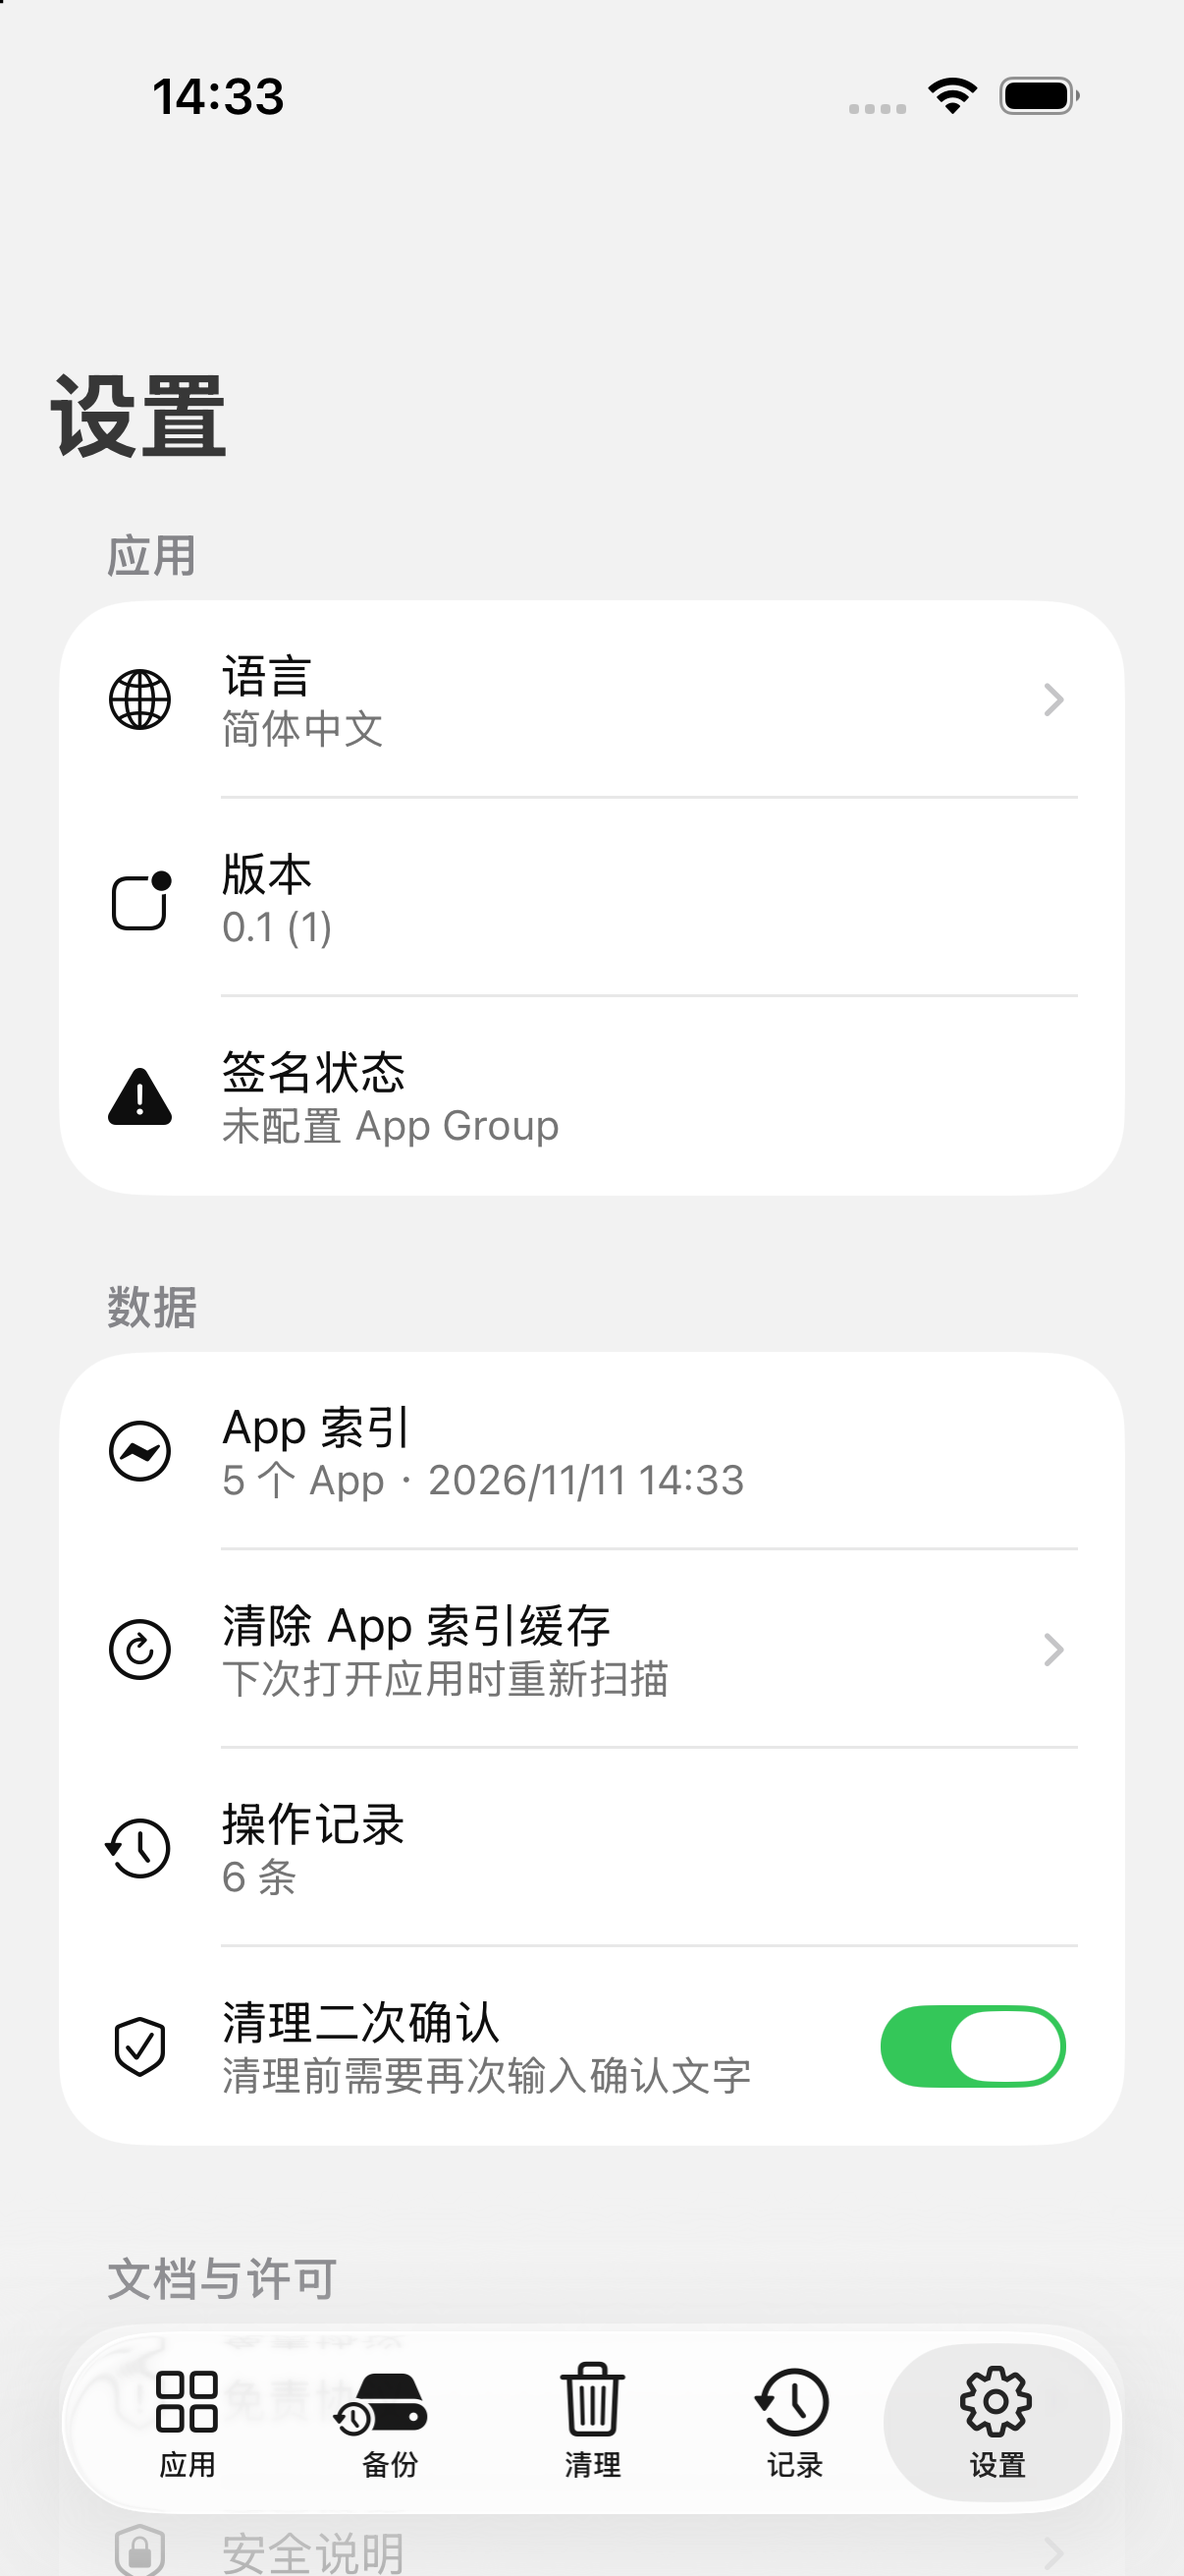
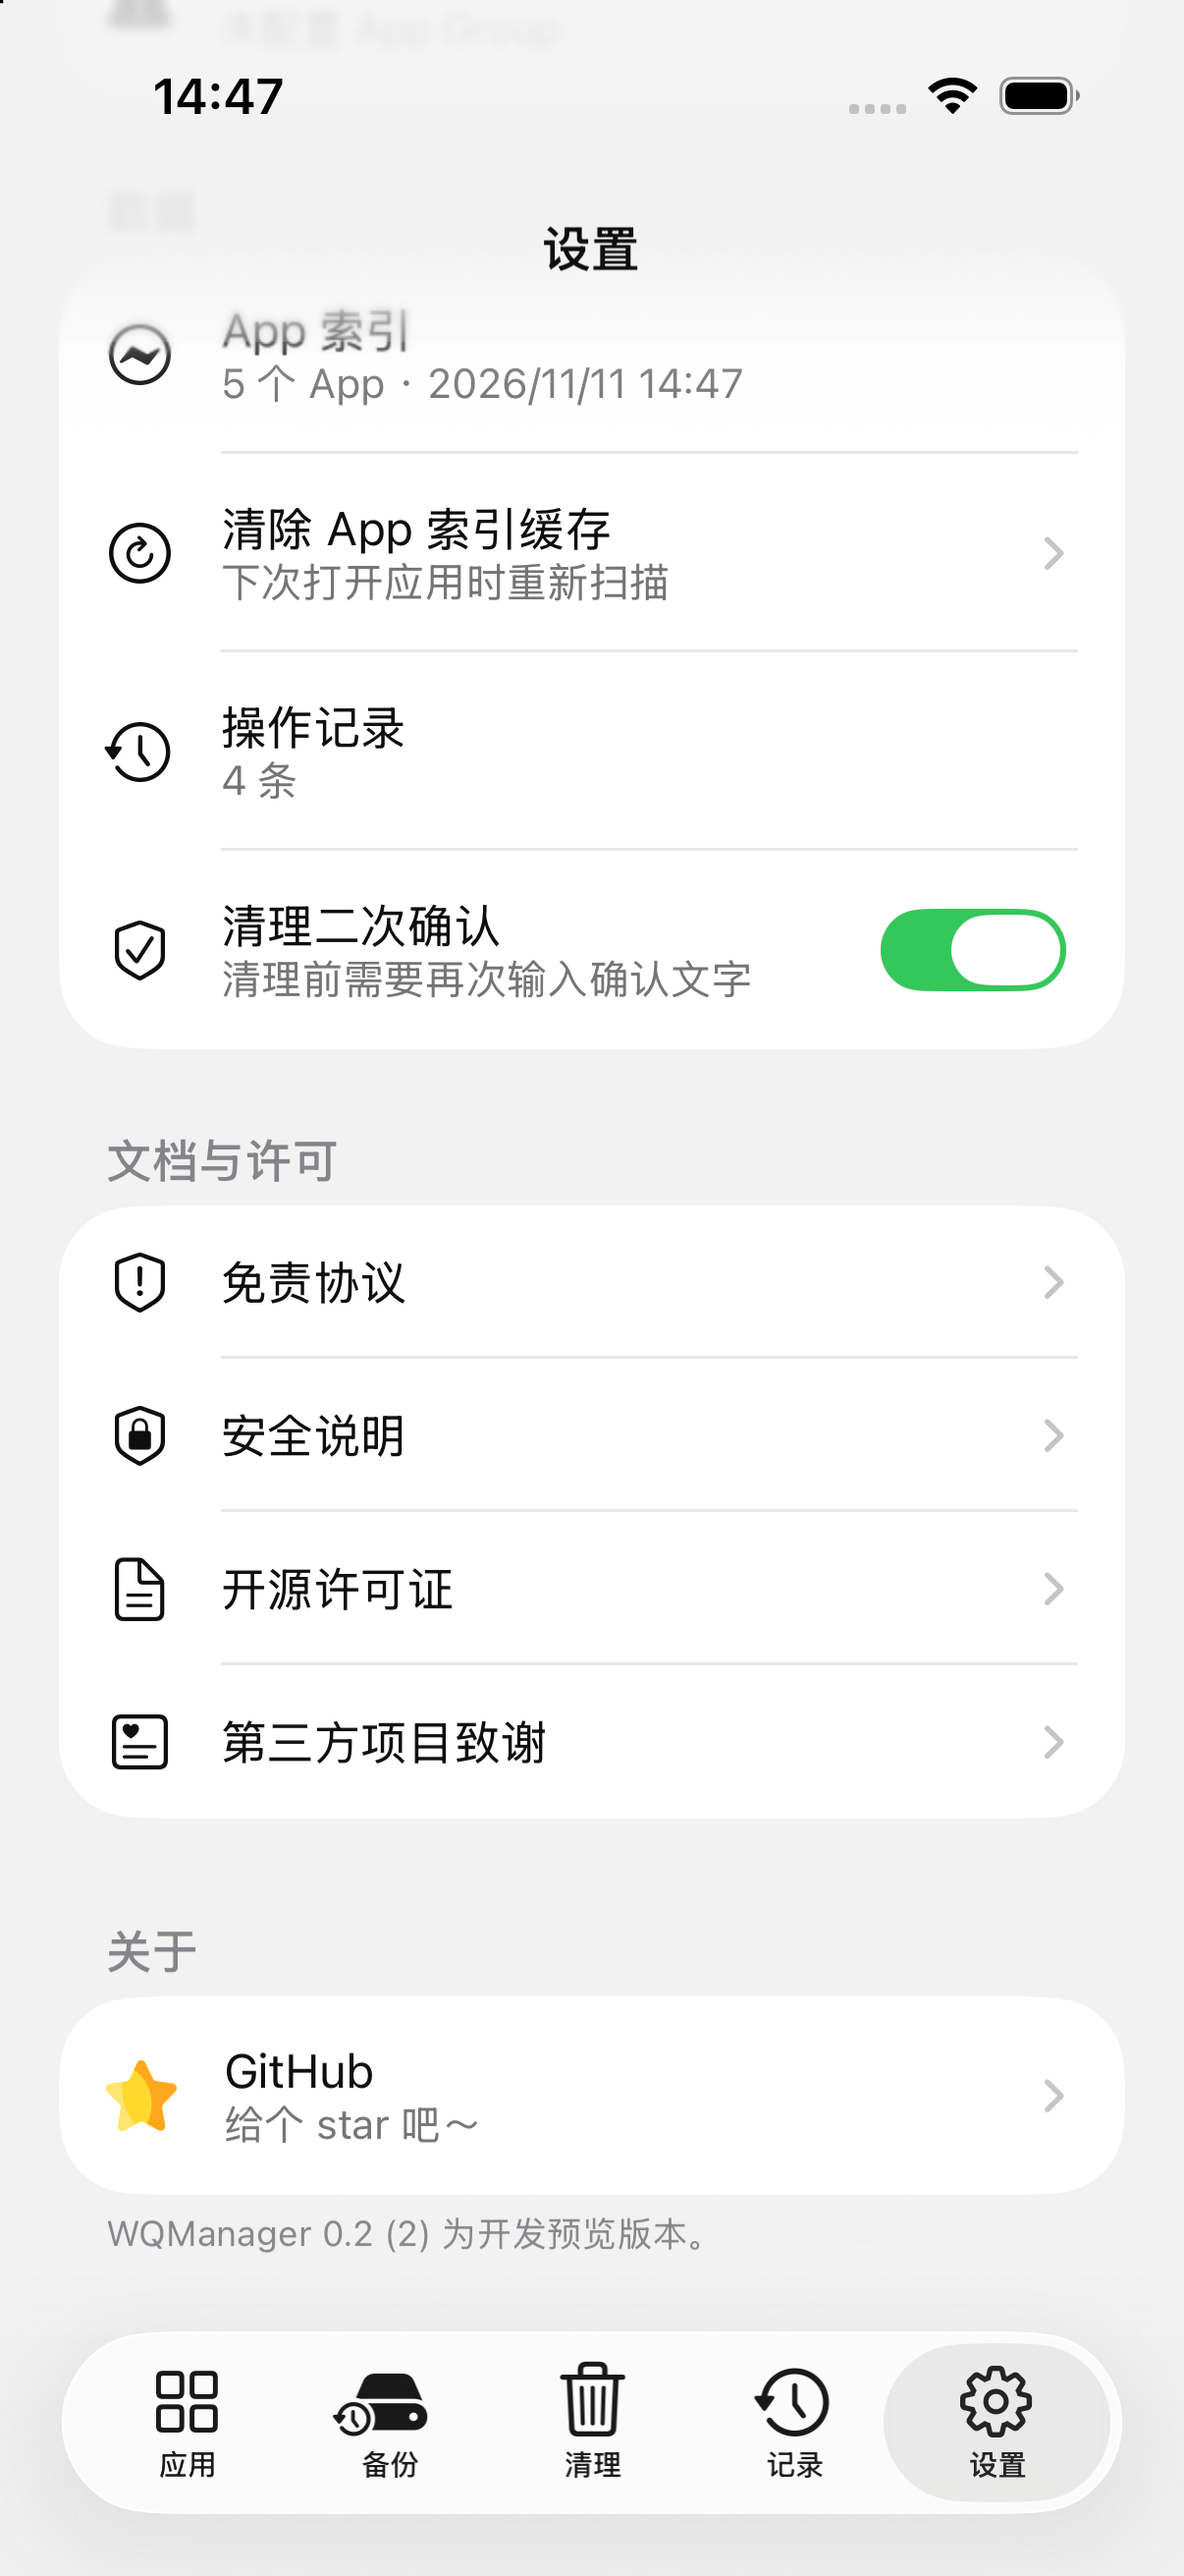
feat: in-app GitHub entry, version 0.2, cleaner drawer jitter fix

diff --git a/WQManager/WQManager/WQMSettingsViewController.m b/WQManager/WQManager/WQMSettingsViewController.m
@@ -154,6 +154,16 @@ typedef NS_ENUM(NSInteger, WQMSettingsRow) {
 {
     [super viewDidAppear:animated];
 #if DEBUG
+    if ([NSProcessInfo.processInfo.environment[@"WQM_UI_SETTINGS_SCROLL"] boolValue]) {
+        dispatch_after(dispatch_time(DISPATCH_TIME_NOW, (int64_t)(1.2 * NSEC_PER_SEC)),
+                       dispatch_get_main_queue(), ^{
+            CGFloat bottom = self.tableView.contentSize.height - self.tableView.bounds.size.height
+                           + self.tableView.adjustedContentInset.bottom + 96;
+            if (bottom > 0) [self.tableView setContentOffset:CGPointMake(0, bottom) animated:NO];
+        });
+    }
+#endif
+#if DEBUG
     NSString *fixtureRow = NSProcessInfo.processInfo.environment[@"WQM_UI_SETTINGS_DOC"];
     if (fixtureRow.length && !_presentedFixtureDocument) {
         _presentedFixtureDocument = YES;
@@ -194,25 +204,27 @@ typedef NS_ENUM(NSInteger, WQMSettingsRow) {
     });
 }
 
-- (NSInteger)numberOfSectionsInTableView:(UITableView *)tableView { return 3; }
+- (NSInteger)numberOfSectionsInTableView:(UITableView *)tableView { return 4; }
 
 - (NSInteger)tableView:(UITableView *)tableView numberOfRowsInSection:(NSInteger)section
 {
     if (section == 0) return 3;
     if (section == 1) return 4;
-    return 4;
+    if (section == 2) return 4;
+    return 1;
 }
 
 - (NSString *)tableView:(UITableView *)tableView titleForHeaderInSection:(NSInteger)section
 {
     if (section == 0) return WQML(@"SETTINGS_APP", @"应用");
     if (section == 1) return WQML(@"SETTINGS_DATA", @"数据");
-    return WQML(@"SETTINGS_DOCS", @"文档与许可");
+    if (section == 2) return WQML(@"SETTINGS_DOCS", @"文档与许可");
+    return WQML(@"SETTINGS_ABOUT", @"关于");
 }
 
 - (NSString *)tableView:(UITableView *)tableView titleForFooterInSection:(NSInteger)section
 {
-    if (section == 2) return WQML(@"DEVELOPMENT_FOOTER", @"WQManager 0.1 为开发预览版本。");
+    if (section == 3) return [NSString stringWithFormat:WQML(@"DEVELOPMENT_FOOTER", @"WQManager %@ 为开发预览版本。"), _versionText ?: @""];
     return nil;
 }
 
@@ -273,6 +285,15 @@ typedef NS_ENUM(NSInteger, WQMSettingsRow) {
                    action:@selector(cleanDoubleConfirmToggled:)
          forControlEvents:UIControlEventValueChanged];
         cell.accessoryView = toggle;
+    } else if (indexPath.section == 3) {
+        content.text = @"GitHub";
+        content.secondaryText = WQML(@"SETTINGS_GITHUB_SUBTITLE", @"给个 star 吧～");
+        UIImage *star = [UIImage imageNamed:@"Star"];
+        content.image = star ? [star imageWithRenderingMode:UIImageRenderingModeAlwaysOriginal]
+                             : [UIImage systemImageNamed:@"star.fill"];
+        content.imageProperties.maximumSize = CGSizeMake(24, 24);
+        content.imageProperties.reservedLayoutSize = CGSizeMake(24, 24);
+        cell.accessoryType = UITableViewCellAccessoryDisclosureIndicator;
     } else {
         NSArray<NSString *> *titles = @[
             WQML(@"DISCLAIMER", @"免责协议"),
@@ -319,6 +340,11 @@ typedef NS_ENUM(NSInteger, WQMSettingsRow) {
             [self reloadState];
         }]];
         [self presentViewController:alert animated:YES completion:nil];
+        return;
+    }
+    if (indexPath.section == 3) {
+        NSURL *url = [NSURL URLWithString:@"https://github.com/hhse/WQManager"];
+        if (url) [[UIApplication sharedApplication] openURL:url options:@{} completionHandler:nil];
         return;
     }
     if (indexPath.section != 2) return;

diff --git a/WQManager/WQManager/WQMCleanerViewController.m b/WQManager/WQManager/WQMCleanerViewController.m
@@ -924,8 +924,9 @@ typedef NS_ENUM(NSInteger, WQMCleanerQuickAction) {
 
     _titleLabel.text = item.name;
     _titleLabel.textColor = item.eligible ? WQMTheme.textPrimaryColor : WQMTheme.textSecondaryColor;
-    _iconView.image = [WQMAppIconService iconForBundleIdentifier:item.bundleIdentifier
-                                                     displayName:item.name];
+    UIImage *icon = [WQMAppIconService iconForBundleIdentifier:item.bundleIdentifier
+                                                   displayName:item.name];
+    if (icon && icon != _iconView.image) _iconView.image = icon;
     _iconView.alpha = item.eligible ? 1 : 0.5;
     _sizeLabel.text = item.eligible ? WQMFormatBytes(item.bytes) : @"";
 
@@ -962,8 +963,9 @@ typedef NS_ENUM(NSInteger, WQMCleanerQuickAction) {
 
 - (void)refreshIconWithItem:(WQMCleanItem *)item
 {
-    _iconView.image = [WQMAppIconService iconForBundleIdentifier:item.bundleIdentifier
-                                                     displayName:item.name];
+    UIImage *icon = [WQMAppIconService iconForBundleIdentifier:item.bundleIdentifier
+                                                   displayName:item.name];
+    if (icon && icon != _iconView.image) _iconView.image = icon;
 }
 
 - (void)configureEmptyScanning:(BOOL)scanning status:(NSString *)status
@@ -1351,8 +1353,8 @@ typedef NS_ENUM(NSInteger, WQMCleanerQuickAction) {
     if (expanded) [_expandedKeys addObject:key];
     else [_expandedKeys removeObject:key];
     WQMCleanerCell *cell = (WQMCleanerCell *)[tableView cellForRowAtIndexPath:indexPath];
-    [cell setExpanded:expanded animated:YES];
     [tableView beginUpdates];
+    [cell setExpanded:expanded animated:YES];
     [tableView endUpdates];
 }
 

diff --git a/CHANGELOG.md b/CHANGELOG.md
@@ -11,9 +11,17 @@ semantic versioning once it reaches 1.0.
 - Cleaner rows no longer clip text at large Dynamic Type sizes; every row uses
   intrinsic height and a `>= 52 pt` minimum.
 - Dashboard progress ring no longer jitters when the selection changes.
+- Cleaner drawers expand/collapse inside the table update transaction, so the
+  app icon no longer jitters while the card resizes.
+
+### Added
+
+- Settings → About now links to the project on GitHub, with the star icon and a
+  short "give it a star" line (0.2).
 
 ### Changed
 
+- Version 0.2 (build 2).
 - Cleaner list redesigned after the iOS 26 "storage" pattern: big selection
   circle, app icon, title + subtitle, right-aligned size, chevron, and a
   per-app drawer with `Library/Caches` / `tmp` as selectable sub-rows.
